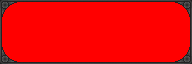
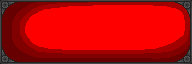
updated ui

diff --git a/UI.py b/UI.py
@@ -4,9 +4,11 @@ from PIL import ImageTk, Image
 def init_UI_images():
     img_hp = ImageTk.PhotoImage(Image.open("images\health.png"))
     img_hp_bar = ImageTk.PhotoImage(Image.open("images\healthbar.png"))
-    return(img_hp, img_hp_bar)
+    img_mana = ImageTk.PhotoImage(Image.open("images\mana.png"))
+    img_mana_bar = ImageTk.PhotoImage(Image.open("images\manabar.png"))
+    return(img_hp, img_hp_bar, img_mana, img_mana_bar)
 
-def init_UI(img_hp, img_hp_bar, player_1, m, window):
+def init_UI(img_hp, img_hp_bar, img_mana, img_mana_bar, player_1, m, window):
 
     exit_game_button = tk.Button(text="Exit Game", command=lambda : exit_game("Goodbye :(", window))
     exit_game_button.grid(row=0, column=m, columnspan = 2)
@@ -20,13 +22,14 @@ def init_UI(img_hp, img_hp_bar, player_1, m, window):
     font = ("Arial", 12), height=1, width = 3, borderwidth = 0, highlightthickness = 0)
     player_hp_value_label.grid(row=1, column = m+1)
 
-    player_mana_label = tk.Label(text = "Mana", bg="orange",
-    font = ("Arial", 9), height=2, width = 7, borderwidth = 0, highlightthickness = 0)
-    player_mana_label.grid(row = 2, column = m)
+    player_hp_label = tk.Label(highlightthickness = 0, borderwidth = 0, image = img_mana)
+    player_hp_label.grid(row=2, column=m)
 
-    player_mana_value_label = tk.Label(text = "5 / 5", bg="dodgerblue",
-    font = ("Arial", 9), height=2, width = 20, borderwidth = 0, highlightthickness = 0)
-    player_mana_value_label.grid(row = 2, column = m + 1)
+    player_mana_value_label = tk.Label(highlightthickness = 0, borderwidth = 0, image = img_mana_bar)
+    player_mana_value_label.grid(row=2, column=m+1)
+    player_mana_value_label = tk.Label(text = (str(player_1.health)), bg="blue",
+    font = ("Arial", 12), height=1, width = 3, borderwidth = 0, highlightthickness = 0)
+    player_mana_value_label.grid(row=2, column = m+1)
 
     player_damage_label = tk.Label(text = "Damage", bg="orange",
     font = ("Arial", 9), height=2, width = 7, borderwidth = 0, highlightthickness = 0)

diff --git a/main.py b/main.py
@@ -30,8 +30,8 @@ enemies, items = create_dictionaries(rats, orcs, ghosts, swords, potions)
 
 # creates and initializes the UI (player health, etc) and the monster info panels
 info_monster_img, info_monster_name, info_monster_hp, info_monster_hp_value, info_monster_damage, info_monster_damage_value = init_monster_info(m)
-img_hp, img_hp_bar = init_UI_images()
-player_hp_value_label, player_mana_value_label, player_damage_value_label, exit_game_button = init_UI(img_hp, img_hp_bar, player_1, m, window)
+img_hp, img_hp_bar, img_mana, img_mana_bar = init_UI_images()
+player_hp_value_label, player_mana_value_label, player_damage_value_label, exit_game_button = init_UI(img_hp, img_hp_bar, img_mana, img_mana_bar, player_1, m, window)
 
 
 # the following two functions are responsible for processing keyboard and mouse input from the player
